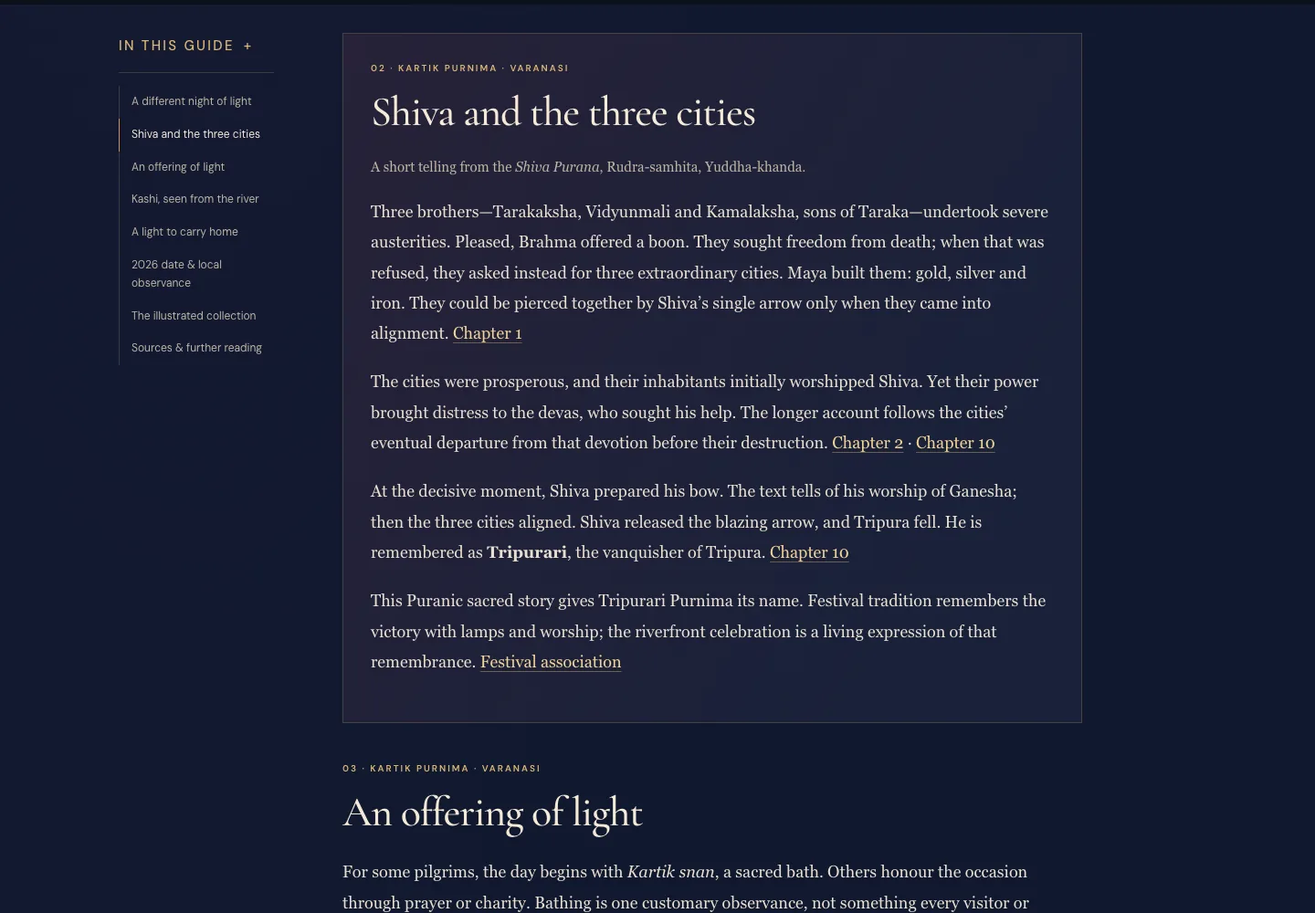
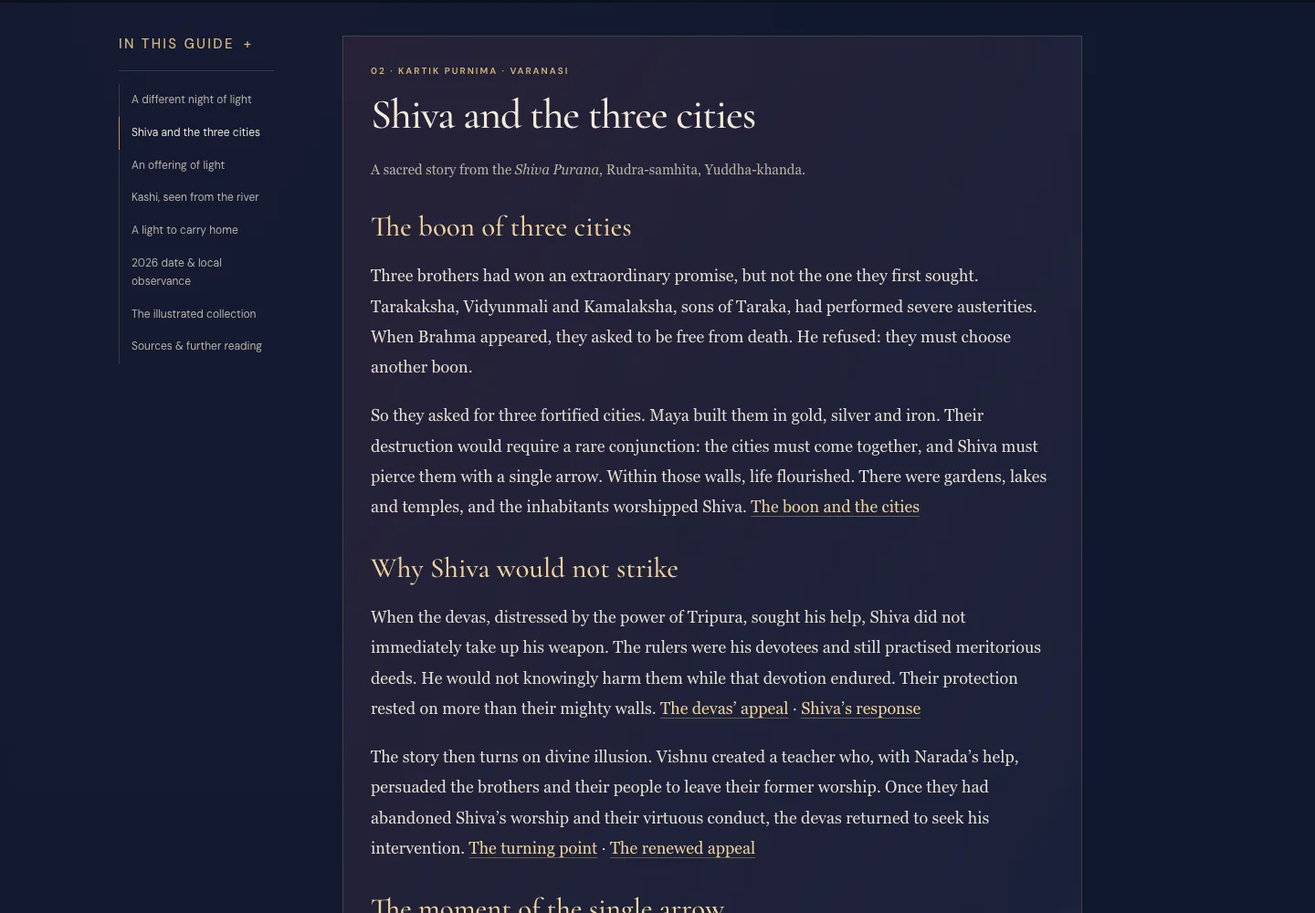
Expand Tripura storytelling with a text-free Shiva illustration

diff --git a/dev-deepavali-hi.html b/dev-deepavali-hi.html
@@ -67,16 +67,18 @@
 </p>
 <h2>शिव और त्रिपुर की तीन नगरियाँ
 </h2>
-<p class="source-intro"><em>शिव पुराण</em> की रुद्र संहिता, युद्ध खंड से एक संक्षिप्त कथा।
-</p>
-<p>तारक के तीन पुत्र—तारकाक्ष, विद्युन्माली और कमलाक्ष—कठोर तपस्या करते हैं। प्रसन्न होकर ब्रह्मा उन्हें वर देते हैं। वे पहले मृत्यु से मुक्ति माँगते हैं। यह संभव न होने पर वे तीन अद्भुत नगरियों का वर माँगते हैं। मय उनके लिए सोने, चाँदी और लोहे की नगरियाँ बनाते हैं। उनका विनाश तभी हो सकता था, जब वे एक सीध में आएँ और शिव का एक ही बाण उन्हें भेद दे। <a href="#source-tripura">अध्याय 1</a>
-</p>
-<p>नगरियाँ समृद्ध थीं और उनके निवासी आरंभ में शिव की उपासना करते थे। किंतु उनके बढ़ते प्रभाव से देवता व्यथित हुए और सहायता के लिए शिव की शरण में गए। विस्तृत कथा में नगरियों के विनाश से पहले वहाँ शिवभक्ति से विमुख होने का प्रसंग भी आता है। <a href="#source-prayer">अध्याय 2</a> · <a href="#source-burning">अध्याय 10</a>
-</p>
-<p>निर्णायक क्षण पर शिव धनुष सँभालते हैं। कथा में गणेश की पूजा का वर्णन आता है; फिर तीनों नगरियाँ एक सीध में आ जाती हैं। शिव का तेजस्वी बाण छूटता है और त्रिपुर का अंत होता है। इसी विजय से वे <strong>त्रिपुरारी</strong>, यानी त्रिपुर का नाश करने वाले, कहलाते हैं। <a href="#source-burning">अध्याय 10</a>
-</p>
-<p>यह पौराणिक कथा त्रिपुरारी पूर्णिमा के नाम से जुड़ी है। पर्व की परंपरा में दीप और प्रार्थना उस विजय की स्मृति बनते हैं। घाटों का दीपोत्सव आज भी इस श्रद्धा को जीवंत रूप देता है। <a href="#source-drik">पर्व का संबंध</a>
-</p>
+<p class="source-intro"><em>शिव पुराण</em> की रुद्र संहिता, युद्ध खंड से एक पौराणिक कथा।</p>
+<h3>तीन नगरियों का वरदान</h3>
+<p>तीन भाइयों को एक अद्भुत वर मिलने वाला था, पर वह नहीं जो उन्होंने पहले माँगा था। तारक के पुत्र तारकाक्ष, विद्युन्माली और कमलाक्ष ने कठोर तप किया। ब्रह्मा प्रकट हुए तो उन्होंने मृत्यु से मुक्ति माँगी। ब्रह्मा ने यह वर देने से मना किया और उनसे कोई दूसरा वर चुनने को कहा।</p>
+<p>तब उन्होंने तीन दुर्गम नगरियाँ माँगीं। मय ने उन्हें सोने, चाँदी और लोहे से बनाया। उनके विनाश की शर्त असाधारण थी—तीनों नगरियाँ एक साथ आएँ और शिव का एक ही बाण उन्हें भेदे। उन नगरियों में जीवन समृद्ध था। बाग़, सरोवर और मंदिर थे; वहाँ के निवासी शिव की उपासना करते थे। <a href="#source-tripura">वरदान और नगरियाँ</a></p>
+<h3>शिव ने तुरंत आक्रमण क्यों नहीं किया?</h3>
+<p>त्रिपुर की शक्ति से व्यथित देवताओं ने शिव से सहायता माँगी। फिर भी शिव ने तुरंत शस्त्र नहीं उठाया। वहाँ के शासक उनके भक्त थे और पुण्यकर्म करते थे। जब तक उनकी भक्ति बनी हुई थी, शिव जानबूझकर उन्हें हानि नहीं पहुँचाना चाहते थे। उनकी रक्षा केवल दुर्ग की ऊँची दीवारों से नहीं हो रही थी। <a href="#source-prayer">देवताओं की प्रार्थना</a> · <a href="#source-devotion">शिव का उत्तर</a></p>
+<p>इसके बाद कथा में दिव्य माया का प्रसंग आता है। विष्णु ने एक उपदेशक की रचना की, जिसने नारद की सहायता से भाइयों और नगरवासियों को उनकी पहले की उपासना से दूर कर दिया। जब उन्होंने शिवपूजा और सदाचरण छोड़ दिया, तब देवता फिर शिव की शरण में आए। <a href="#source-delusion">कथा का मोड़</a> · <a href="#source-return">फिर से की गई प्रार्थना</a></p>
+<h3>एक बाण का निर्णायक क्षण</h3>
+<p>एक दिव्य रथ तैयार हुआ और ब्रह्मा उसके सारथी बने। शिव उस पर सवार होकर नगरियों की ओर चले। <em>पुराण</em> इस अभियान को ब्रह्मांडीय रूप देता है—वेद ही उस रथ को खींचने वाले घोड़े बनते हैं। <a href="#source-chariot">शिव का अभियान</a></p>
+<figure class="tripura-art"><img src="images/dev-deepavali/shiva-tripurantaka.webp" srcset="images/dev-deepavali/shiva-tripurantaka-800.webp 800w, images/dev-deepavali/shiva-tripurantaka.webp 1600w" sizes="(max-width:600px) 90vw, (max-width:1049px) 92vw, 810px" width="1600" height="900" alt="दिव्य रथ पर सवार शिव तीन दूरस्थ आकाशीय नगरियों की ओर धनुष खींचते हुए—त्रिपुर की कथा का प्रतीकात्मक चित्र" loading="lazy" decoding="async"><figcaption>त्रिपुरांतक शिव। रथ और तीन नगरियों का प्रतीकात्मक चित्रण; यह पौराणिक प्रसंग आज के काशी-उत्सव से अलग है।</figcaption></figure>
+<p>पर निर्णायक क्षण अभी नहीं आया था। तीनों नगरियाँ अलग-अलग थीं। शिव ने गणेश का सम्मान किया; तब वे एक साथ आ गईं। शिव ने धनुष खींचा और तेजस्वी बाण छोड़ दिया। तीनों दुर्ग भस्म हो गए। इसी विजय से वे <strong>त्रिपुरांतक</strong>, यानी त्रिपुर का अंत करने वाले, और <strong>त्रिपुरारी</strong> कहलाते हैं। <a href="#source-burning">त्रिपुर का अंत</a></p>
+<p>त्रिपुरारी पूर्णिमा पर दीप और प्रार्थना इस विजय की स्मृति बनते हैं। प्रकाश के इस अर्पण में पौराणिक कथा और काशी की जीवंत परंपरा एक-दूसरे से जुड़ती हैं। <a href="#source-drik">पर्व का संबंध</a></p>
 </section>
 <section class="chapter dev-ritual" id="ritual">
 <p class="chapter-kicker">03 · कार्तिक पूर्णिमा · वाराणसी
@@ -163,6 +165,10 @@
 </li>
 <li id="source-prayer"><a href="https://www.wisdomlib.org/hinduism/book/shiva-purana-english/d/doc226143.html">Shiva Purana · Yuddha-khanda 2</a>
 </li>
+<li id="source-devotion"><a href="https://www.wisdomlib.org/hinduism/book/shiva-purana-english/d/doc226144.html">Shiva Purana · Yuddha-khanda 3</a></li>
+<li id="source-delusion"><a href="https://www.wisdomlib.org/hinduism/book/shiva-purana-english/d/doc226145.html">Shiva Purana · Yuddha-khanda 4</a></li>
+<li id="source-return"><a href="https://www.wisdomlib.org/hinduism/book/shiva-purana-english/d/doc226147.html">Shiva Purana · Yuddha-khanda 6</a></li>
+<li id="source-chariot"><a href="https://www.wisdomlib.org/hinduism/book/shiva-purana-english/d/doc226150.html">Shiva Purana · Yuddha-khanda 9</a></li>
 <li id="source-burning"><a href="https://www.wisdomlib.org/hinduism/book/shiva-purana-english/d/doc226151.html">Shiva Purana · Yuddha-khanda 10</a>
 </li>
 <li id="source-upanishad"><a href="https://heritage.iitk.ac.in/BRU/1.3.28">Brihadaranyaka Upanishad 1.3.28 · IIT Kanpur</a>

diff --git a/dev-deepavali.html b/dev-deepavali.html
@@ -67,16 +67,18 @@
 </p>
 <h2>Shiva and the three cities
 </h2>
-<p class="source-intro">A short telling from the <em>Shiva Purana</em>, Rudra-samhita, Yuddha-khanda.
-</p>
-<p>Three brothers—Tarakaksha, Vidyunmali and Kamalaksha, sons of Taraka—undertook severe austerities. Pleased, Brahma offered a boon. They sought freedom from death; when that was refused, they asked instead for three extraordinary cities. Maya built them: gold, silver and iron. They could be pierced together by Shiva’s single arrow only when they came into alignment. <a href="#source-tripura">Chapter 1</a>
-</p>
-<p>The cities were prosperous, and their inhabitants initially worshipped Shiva. Yet their power brought distress to the devas, who sought his help. The longer account follows the cities’ eventual departure from that devotion before their destruction. <a href="#source-prayer">Chapter 2</a> · <a href="#source-burning">Chapter 10</a>
-</p>
-<p>At the decisive moment, Shiva prepared his bow. The text tells of his worship of Ganesha; then the three cities aligned. Shiva released the blazing arrow, and Tripura fell. He is remembered as <strong>Tripurari</strong>, the vanquisher of Tripura. <a href="#source-burning">Chapter 10</a>
-</p>
-<p>This Puranic sacred story gives Tripurari Purnima its name. Festival tradition remembers the victory with lamps and worship; the riverfront celebration is a living expression of that remembrance. <a href="#source-drik">Festival association</a>
-</p>
+<p class="source-intro">A sacred story from the <em>Shiva Purana</em>, Rudra-samhita, Yuddha-khanda.</p>
+<h3>The boon of three cities</h3>
+<p>Three brothers had won an extraordinary promise, but not the one they first sought. Tarakaksha, Vidyunmali and Kamalaksha, sons of Taraka, had performed severe austerities. When Brahma appeared, they asked to be free from death. He refused: they must choose another boon.</p>
+<p>So they asked for three fortified cities. Maya built them in gold, silver and iron. Their destruction would require a rare conjunction: the cities must come together, and Shiva must pierce them with a single arrow. Within those walls, life flourished. There were gardens, lakes and temples, and the inhabitants worshipped Shiva. <a href="#source-tripura">The boon and the cities</a></p>
+<h3>Why Shiva would not strike</h3>
+<p>When the devas, distressed by the power of Tripura, sought his help, Shiva did not immediately take up his weapon. The rulers were his devotees and still practised meritorious deeds. He would not knowingly harm them while that devotion endured. Their protection rested on more than their mighty walls. <a href="#source-prayer">The devas’ appeal</a> · <a href="#source-devotion">Shiva’s response</a></p>
+<p>The story then turns on divine illusion. Vishnu created a teacher who, with Narada’s help, persuaded the brothers and their people to leave their former worship. Once they had abandoned Shiva’s worship and their virtuous conduct, the devas returned to seek his intervention. <a href="#source-delusion">The turning point</a> · <a href="#source-return">The renewed appeal</a></p>
+<h3>The moment of the single arrow</h3>
+<p>A divine chariot was prepared, and Brahma became its charioteer. Shiva mounted it and set out towards the cities. The <em>Purana</em> gives this a cosmic scale: even the Vedas become the horses that draw his chariot. <a href="#source-chariot">Shiva’s campaign</a></p>
+<figure class="tripura-art"><img src="images/dev-deepavali/shiva-tripurantaka.webp" srcset="images/dev-deepavali/shiva-tripurantaka-800.webp 800w, images/dev-deepavali/shiva-tripurantaka.webp 1600w" sizes="(max-width:600px) 90vw, (max-width:1049px) 92vw, 810px" width="1600" height="900" alt="Shiva drawing a bow from a chariot towards three distant celestial cities in a symbolic illustration of Tripura" loading="lazy" decoding="async"><figcaption>Shiva as Tripurantaka. A symbolic rendering of the chariot and three cities; the ancient narrative is distinct from the present-day Kashi celebration.</figcaption></figure>
+<p>Yet the decisive moment had not arrived. The three cities remained apart. After Shiva honoured Ganesha, they came together. Shiva drew his bow and released the blazing arrow; the three fortresses were reduced to ashes. He is remembered as <strong>Tripurantaka</strong>, the destroyer of Tripura, and <strong>Tripurari</strong>, its vanquisher. <a href="#source-burning">The fall of Tripura</a></p>
+<p>On Tripurari Purnima, this victory is remembered through lamps and worship. The sacred story and Kashi’s living celebration meet in that offering of light. <a href="#source-drik">The festival connection</a></p>
 </section>
 <section class="chapter dev-ritual" id="ritual">
 <p class="chapter-kicker">03 · Kartik Purnima · Varanasi
@@ -163,6 +165,10 @@
 </li>
 <li id="source-prayer"><a href="https://www.wisdomlib.org/hinduism/book/shiva-purana-english/d/doc226143.html">Shiva Purana · Yuddha-khanda 2</a>
 </li>
+<li id="source-devotion"><a href="https://www.wisdomlib.org/hinduism/book/shiva-purana-english/d/doc226144.html">Shiva Purana · Yuddha-khanda 3</a></li>
+<li id="source-delusion"><a href="https://www.wisdomlib.org/hinduism/book/shiva-purana-english/d/doc226145.html">Shiva Purana · Yuddha-khanda 4</a></li>
+<li id="source-return"><a href="https://www.wisdomlib.org/hinduism/book/shiva-purana-english/d/doc226147.html">Shiva Purana · Yuddha-khanda 6</a></li>
+<li id="source-chariot"><a href="https://www.wisdomlib.org/hinduism/book/shiva-purana-english/d/doc226150.html">Shiva Purana · Yuddha-khanda 9</a></li>
 <li id="source-burning"><a href="https://www.wisdomlib.org/hinduism/book/shiva-purana-english/d/doc226151.html">Shiva Purana · Yuddha-khanda 10</a>
 </li>
 <li id="source-upanishad"><a href="https://heritage.iitk.ac.in/BRU/1.3.28">Brihadaranyaka Upanishad 1.3.28 · IIT Kanpur</a>

diff --git a/dev-deepavali.css b/dev-deepavali.css
@@ -51,3 +51,10 @@
 @media(max-width:1049px){.guide-dev .layout{display:block;max-width:810px}.guide-dev .toc{position:static;margin-bottom:35px;max-height:none}.guide-dev main{max-width:none}}
 @media(max-width:600px){.guide-dev .hero{padding:0 18px;margin-top:34px}.guide-dev .dev-hero-copy{margin-bottom:25px}.guide-dev .eyebrow{font-size:10px}.guide-dev .dev-lead{font-size:17px}.guide-dev .layout{width:auto;margin:38px 22px 0}.guide-dev .chapter{padding-bottom:30px;margin-bottom:30px}.guide-dev .opening{font-size:21px;margin-bottom:35px}.guide-dev .dev-story,.guide-dev .dev-dates{padding:23px 19px}.guide-dev .poster-grid{grid-template-columns:1fr}.guide-dev .poster-disclosure{padding:12px}.guide-dev .dev-hero-art{padding:5px 5px 0}.guide-dev .dev-hero-art figcaption{font-size:11px}.guide-dev .source-list{font-size:13px}.guide-dev.hi .opening{font-size:20px;line-height:1.9}.guide-dev .nav{padding-inline:18px}.guide-dev .navlinks{gap:9px}.guide-dev .navlinks a{font-size:12px}.guide-dev .brand span{display:none}}
 @media print{.guide-dev{background:#fff;color:#222}.guide-dev .chapter{break-inside:auto}.guide-dev :is(h1,h2,p){color:#222!important}.guide-dev .dev-hero-art{max-width:700px}}
+/* The story unfolds in three short movements, with its artwork in the reading flow. */
+.guide-dev .dev-story h3{font:500 clamp(24px,2.6vw,31px)/1.3 var(--display);color:var(--gold-light);margin:30px 0 17px;max-width:30ch}
+.guide-dev.hi .dev-story h3{font-family:var(--hindi);font-size:clamp(22px,2.3vw,28px);line-height:1.7;max-width:none}
+.guide-dev .tripura-art{margin:28px -30px 30px;border:0;border-block:1px solid var(--line);background:var(--deep)}
+.guide-dev .tripura-art img{width:100%;height:auto;object-fit:contain}
+.guide-dev .tripura-art figcaption{padding:15px 25px;font:13px/1.7 var(--ui);color:var(--muted)}
+@media(max-width:600px){.guide-dev .tripura-art{margin-inline:-19px}.guide-dev .tripura-art figcaption{font-size:12px;padding:14px 19px}}

diff --git a/docs/dev-deepavali/research-and-qa.md b/docs/dev-deepavali/research-and-qa.md
@@ -4,7 +4,7 @@
 
 Read all seven text/manifest files in the supplied Dev_Deepavali_Codex_Guide_First_Pack.zip, inspected its six posters, and preserved the extracted source PNGs outside Git. The drafts explicitly permit adaptation and fact checking; they are not controlled narration scripts. Current repository AGENTS.md, README.md, homepage, calendar, shared guide/responsive CSS, Tulsi Vivah and Guru Nanak guides were reviewed. No Dev Deepavali guide existed at the starting main commit b85a63ab720eb1ffb0b962328663802f7200a082.
 
-Only phase 1 is implemented on codex/dev-deepavali-guide. English main reading text is approximately 700 whitespace-delimited words and Hindi 795, including source labels and the optional local timing note but excluding poster gallery and further reading. Narration, video frameworks, Shorts and public hosting are not started. No live changes, merge or deployment are authorized.
+Only phase 1 is implemented on codex/dev-deepavali-guide. English main reading text is approximately 894 whitespace-delimited words and Hindi 969, including source labels and the optional local timing note but excluding poster gallery and further reading. Narration, video frameworks, Shorts and public hosting are not started. No live changes, merge or deployment are authorized.
 
 ## Source checks and editorial choices
 
@@ -21,7 +21,7 @@ All six English-lettered posters have optimized full-composition WebP derivative
 
 The Tripurari poster is retained as supplied symbolic devotional art, not a literal diagram or accurate inventory of scripture iconography. It has a bow rather than the previously problematic trident-through-arm motif. Its full original and all six posters were inspected; no claim of expert iconographic sign-off is made. The six panels’ decorative architecture, repeated lamps, floating cities and broad numeric claims are not used as historical/geographic evidence. The article uses “many”/“rows,” not an exact lamp total.
 
-The additional text-free hero uses the built-in ImageGen workflow; exact prompt and review are in hero-prompt.md. It shows a generalized Kashi riverfront, no new deity portrayal or close-up hands. Both sizes retain the full composition. A high-priority responsive hero and lazy body/gallery images limit mobile downloads. Delivery art totals approximately 2.34 MB before any browser cache; most poster data is deferred behind the closed gallery.
+The additional text-free hero uses the built-in ImageGen workflow; exact prompt and review are in hero-prompt.md. It shows a generalized Kashi riverfront, no new deity portrayal or close-up hands. Both sizes retain the full composition. A high-priority responsive hero and lazy body/gallery images limit mobile downloads. Delivery art totals approximately 2.63 MB before any browser cache; most poster data is deferred behind the closed gallery.
 
 CSS is scoped to .guide-dev and reuses existing local Latin/Devanagari fonts. Shared CSS/JS and older guide pages are unchanged. The homepage retains its Sanatana ghats hero and Guru Nanak feature; the new guide is added to the catalogue only. The existing Kartik Purnima / Dev Diwali calendar entry keeps its date/title and gains bilingual links with a Varanasi-reference description. Global calendar assumptions and other dates are not rewritten.
 
@@ -34,3 +34,13 @@ The supplied future-video requirements are retained verbatim in future-video-spe
 Local results: twelve-page guide validator PASS; eight bilingual page/viewport combinations PASS; no-JavaScript reading/navigation PASS; all image references/dimensions and source anchors PASS; original Dhanteras/Diwali text, links, images and metadata preservation PASS; Python compilation and git whitespace checks PASS. Desktop English/Hindi and 390px hero screenshots plus the story section were inspected. No unresolved local failures. GitHub CI status is recorded on the draft PR.
 
 Existing browser regression suite: PASS, 24 page/viewport combinations covering the unchanged guide layouts, homepage filters and calendar. The original homepage hero block was also compared byte-for-byte with the starting main branch and is unchanged.
+
+## Story expansion requested after the first preview
+
+The owner requested more Shiva storytelling and images. The six newly attached PNGs were checked against the original pack by SHA-256 and are identical; no duplicate poster assets were added. Both editions now unfold the story in three movements: the boon, Shiva’s initial refusal to harm his still-devoted followers, and the chariot/single arrow. A new text-free Tripurantaka image appears in the reading flow rather than only in the poster gallery. Existing opening, other sections, verified date/timings, navigation and metadata are retained. The expanded length reflects the owner’s new request.
+
+Additional primary translation checks: [chapter 3](https://www.wisdomlib.org/hinduism/book/shiva-purana-english/d/doc226144.html), 1–7, supports Shiva’s refusal while the brothers remain meritorious devotees; [chapter 4](https://www.wisdomlib.org/hinduism/book/shiva-purana-english/d/doc226145.html), 1, 37–63, supports Vishnu’s illusory teacher, Narada’s intervention and initiation; [chapter 6](https://www.wisdomlib.org/hinduism/book/shiva-purana-english/d/doc226147.html), 2–3, 26–36, supports the abandonment of worship, renewed appeal and Shiva’s recognition of the deception; [chapter 9](https://www.wisdomlib.org/hinduism/book/shiva-purana-english/d/doc226150.html), 1–12, supports the Vedas as horses and Brahma as charioteer. The account of divine illusion is retained rather than inventing an unprompted change of heart. The source’s sectarian polemics are not adopted as claims about contemporary Jain or Buddhist communities, nor reproduced as the author’s verdict. This remains a short Shaiva sacred narrative, not a neutral historical account of other faiths. The artwork is a symbolic condensation of the cosmic chariot; it does not purport to depict every attribute literally.
+
+The exact new prompt, final asset paths and visual-review limits are recorded in tripurantaka-prompt.md. No original images were overwritten. No video work or publishing is authorized by this revision.
+
+Iconography cross-check: [National Museum / Museums of India Tripurantaka record](https://museumsofindia.gov.in/repository/record/nat_del-82-223-4895) describes a two-armed form holding bow and arrow, supporting this interpretive treatment; other traditional forms have additional arms. Its description also corroborates Vedas as horses and Brahma as charioteer. Museum images were not copied. The updated pages again pass all eight responsive combinations, language switches, image paths/dimensions, source anchors and no-JavaScript checks. Story-art desktop/Hindi mobile screenshots were recaptured after explicit image decode to avoid a blank pre-paint capture.

diff --git a/docs/dev-deepavali/tripurantaka-prompt.md b/docs/dev-deepavali/tripurantaka-prompt.md
@@ -1,0 +1,9 @@
+# Tripurantaka story illustration
+
+Built-in ImageGen, 24 November 2026. Master retained outside Git: `exec-8ba21eed-73ba-4a77-b290-ad90b89d992f.png`. Delivery: `images/dev-deepavali/shiva-tripurantaka.webp` (1600 × 900) and `shiva-tripurantaka-800.webp` (800 × 450).
+
+Exact prompt:
+
+Use case: illustration-story. Asset: a clean, text-free landscape chapter illustration for a bilingual Indian cultural publication about Shiva as Tripurantaka. Paint a premium devotional Indian narrative scene, deep indigo twilight with antique gold illumination, refined luminous brushwork, richly detailed but calm and readable. Lord Shiva in the left half, shown in a clear side-on three-quarter view facing right, two arms only, ash-blue complexion, subtle blue throat, three horizontal sacred ash forehead marks, matted topknot with crescent moon, rudraksha beads, modest tiger-skin garment. He stands securely on the visible rear platform of a traditional Indian divine chariot, cropped before the driver and horses so no invented extra deity is shown. Shiva is drawing ONE bow and ONE arrow in an anatomically correct archery pose: left hand closes naturally around the middle of the bow grip, left arm extended forward toward target, right elbow behind him, right hand at cheek drawing the bowstring and arrow nock together; arrow shaft lies outside and clear of all arms, rests at bow grip, bowstring forms a clear V from the bow tips to the drawing fingers, five natural fingers per visible hand, no disconnected wrists or extra arms. All limbs and hands clearly readable, no trident. In the distant right half, three small distinct fortified cities with ancient Indian rectilinear palace forms, one gold, one silver and one dark iron, symbolically coming into alignment along the arrow's trajectory at different depths. Keep these distant cities subtle rather than three giant ornate floating wedding cakes. No bodies, gore, crowds, violence against people, no contemporary Kashi riverfront in this ancient narrative. The cities appear in a celestial cloudscape, not claimed geography. Wide cinematic 16:9 composition, full bow tips inside the frame, generous space around hands, no graphic glow obscuring the anatomy. Text: none. No typography, labels, speech bubbles, captions, watermarks, decorative border, mosques, Taj Mahal, European architecture or duplicated weapons. Respectful interpretive devotional art, not a literal diagram of every cosmic-chariot detail.
+
+Visual review: inspected full-resolution output for two connected arms, natural grip/drawing wrist, a single bow, a continuous arrow outside the arms, a V-shaped bowstring, crescent/topknot and ash marks. No trident or anatomical weapon intersection is visible. Three distant cities are symbolically rendered, not a literal scientific trajectory diagram or an inventory of every cosmic-chariot attribute. No expert iconography or archery certification is claimed. Browser views must preserve the complete composition, especially both hands and bow tips.
